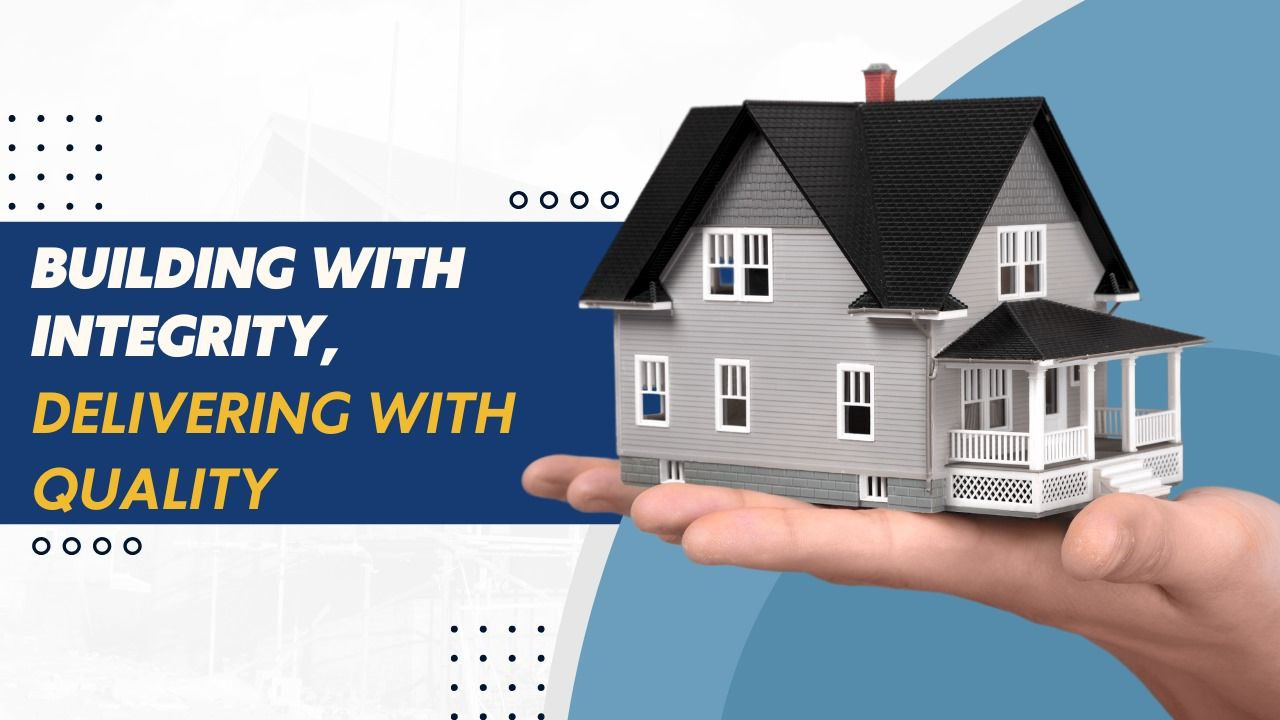
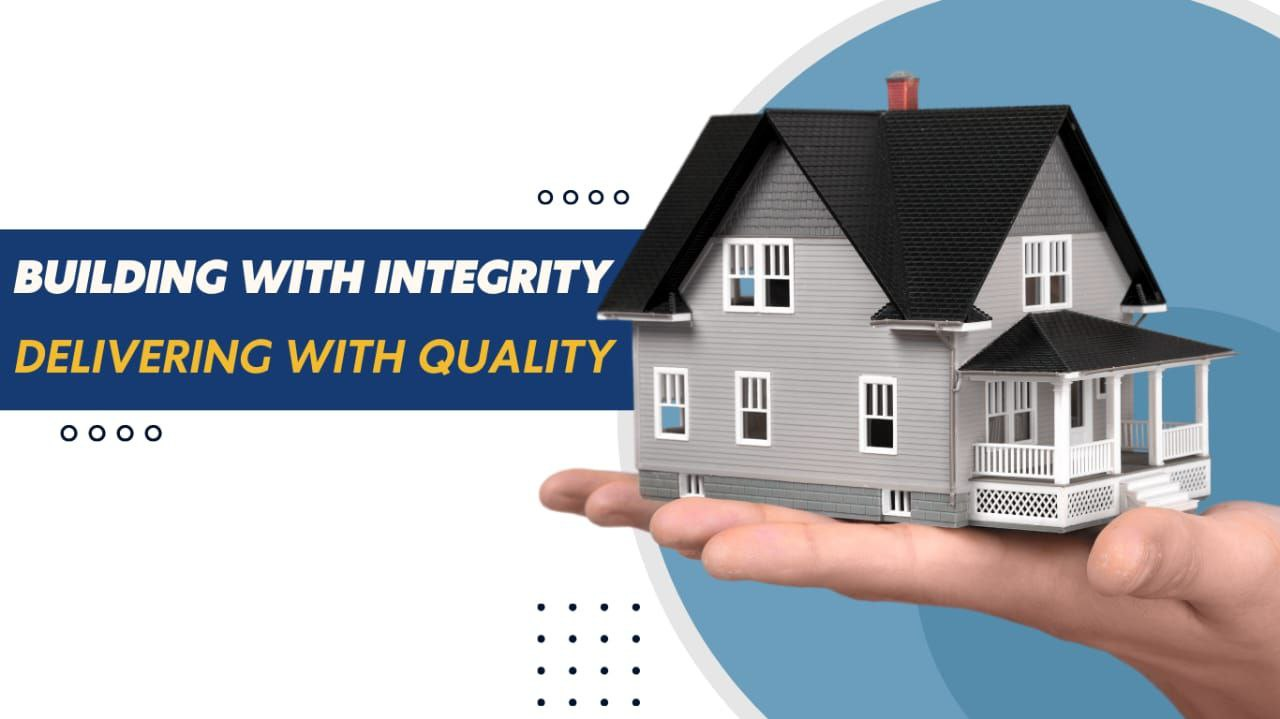
chnage home image

diff --git a/src/app/page.js b/src/app/page.js
@@ -49,9 +49,9 @@ export default function Home() {
           src="/homepage/hero1.jpg"
           alt="Hero Image"
           fill
-          className="sm:object-fill md:object-cover lg:object-cover"
+          className="sm:object-cover md:object-cover lg:object-cover"
           priority
-          // sizes="(max-width: 640px) 100vw, (max-width: 768px) 100vw, (max-width: 1024px) 100vw, 100vw"
+          sizes="(max-width: 640px) 100vw, (max-width: 768px) 100vw, (max-width: 1024px) 100vw, 100vw"
         />
       </div>
       {/* <div className="relative w-full mt-16 h-[30vh] sm:h-[50vh] md:h-[60vh] lg:h-[70vh] max-h-[800px] min-h-[200px] aspect-[4/3] sm:aspect-[16/9]">
